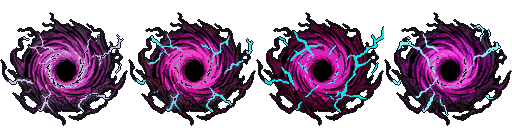
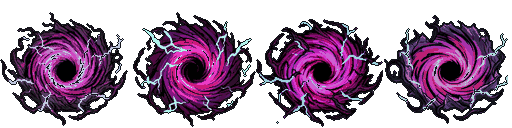
The vortex's tendrils move: frames redrawn from the candidate by image-to-image (rift-frames --mode img2img), chosen by likeness; the compositor's tear is frequent and shears around the rift, and the vortex is drawn in bands that tear the same way, off with the glitch setting

Changed region(s): [[0.25, 0.0938, 1.0, 1.0]]

diff --git a/docs/design-bible.html b/docs/design-bible.html
@@ -363,7 +363,7 @@
     <div class="row"><div class="tagcol"><span class="tag decided">Decided</span></div><div class="body"><p class="lead">The skirmish is fought on the enemy's ground: the foes stand on the other world, the mechs on the seam.</p><p>Ryan, 21 September: a skirmish opens where a squad stands, and where a squad stands the ground has already gone flat, so the fight is never on the reconstruction's terrain. The skirmish screen is the feed the reconstruction hands over to at contact, and its ground says so. Under the foes, the other world's flat bright overworld of the contact hex's terrain, at its two-frame animation. Under the mechs, the reconstruction's tile with the other world eating into it from the top edge through the map's own dithered, pixel-stepped seam: the one place the seam is close enough to read as a texture. The display's grid, the traces on the machines and the scan bar sit over both, the same display on both screens with only the ground changing. Later the seam's depth may follow how far the corruption has come. The map, before a plan is locked, shows the phase exactly as it will resolve (the resolver itself run dry, every unit put back): every contact, every squad a body block will stop, every route that will be rejected. Ryan, 21 September: there is never any ambiguity about what Resolve will do. And 22 September: the player plots in order, each route planned with the machines plotted before it already at their destinations, so a route never conflicts and Resolve never rejects one; re-plotting a machine puts it last in the order (the last thing plotted moves last), and any route the change breaks is dropped and said so. Squads plan the same way, in field order, each around where the squads before it will end, so a squad uses its whole move and only a mech can stop it short. After the movement phase plays, the contacts are offered: how many, who is in each, and the player picks which to fight first and confirms before any skirmish opens. The boss stands on one hex for now and patrols its zone outside the rift (Ryan, 22 September: a wider footprint cannot path, and the gate guard need not march); the multi-hex footprint stays in the engine for later. The movement phase plays: mechs along their routes, then squads along their intents, each cut where it really stopped, and the skirmish opens after.</p></div></div>
     <div class="row"><div class="tagcol"><span class="tag decided">Decided</span></div><div class="body"><p class="lead">Zone of control: a grounded machine controls the ground beside it; a flyer controls nothing.</p><p>Ryan, 22 September, settling how a mech stops a squad and how the preview shows it. Every hex beside a grounded mech is under its guns: a squad that steps onto one stops there, and that is the contact. A squad already standing on controlled ground holds where it is; the contact is its phase. Squads plan blind to the machines, so a plot never makes a squad swerve (a first cut that routed them around control read as a bug: the enemy dodged every contact the player set up); the shown path is the squad's own, cut at the first controlled hex. The preview plans the squads after the machines have moved, so plotting a route that cuts a squad off changes that squad's drawn path before Resolve, and each grounded machine's zone is drawn as one tinted flower round its destination: there is no hidden rule. A flyer's edge is speed and its cost is that it cannot stop anyone; it engages by ending beside where a squad will be. A body block (a squad walking into a machine's hex) can no longer happen against a grounded machine; it remains for squads against squads. Contact is loud: a CONTACT band across the map, black with red rules, beating twice over the dimmed field, then the panel with portraits of everyone in the fight (the machine bare, no outline; the foe as its battle sprite), paged when there are several, the map zoomed to the one being looked at with its hexes lit and the others dimmed. While contacts wait, the map freezes on them: nothing of the next phase (no intents, no zones, no new contacts) shows until every pending fight is done. The codex opens on the map as it does in the fight: double-tap a unit; a squad's entry is its foe type's, headed by the squad and its strength. The handover into the skirmish (decided 22 September, from three options: a cut with a flash, a zoom that flattens, a full feed switch): ENGAGE dives the reconstruction onto the contact, the other world's bleed grows out of the squad until the ground there has gone flat and bright while the machines still stand in it, the display cuts to black, and the skirmish's feed fades up. It says what the skirmish is, the feed the reconstruction hands over to, with the bleed the map already has. The ground a contact is fought on (decided 22 September): the squad's hex, since the fight opens where the squad stands and its ground has already gone flat; with several squads, the first in field order, the one the contact names first. One rule, used by the skirmish's terrain, the handover's spread and every label (the contact plaque, the panel before ENGAGE, the skirmish's header), so the ground is never ambiguous and the player reads it before committing. Ryan's caveat holds: a squad standing on good ground gets it for free, so terrain effects should be things the machines feel, not bonuses the foes get. A route may end on a hex an earlier-plotted machine is leaving, and a tap there routes rather than selects. The destination effect is one component in the HUD's own weight: the tinted hex and its thin outline drawn under the line, three bright broken rings turning against each other around a dot (the display's target lock) well inside the outline, and the intent line arriving at the outer ring; nothing translucent, nothing abutting; the rings' colour meets the ground (bright on dark, deep on pale) with a slow breath between (Ryan, 22 September); the contact effect (a heavier pulsing tint with rings bursting out of it) never shares a hex with it; contact wins; a machine's own destination marker sits on two faint breathing rings in the display's light; the other world's dither never covers a machine (the machines are drawn again over both worlds, from their own layer); the enemy's marks sit on the ground's own height like every other mark (a trial at the hex's base, 22 September, was worse and was reverted the same day); the enemy's line, outline and rings breathe together between red and a bright salmon; the tints are heavy on purpose, the zone breathing, because the UX matters more than the ground under a mark; every hex tint and the zone's outline lie on the ground under the machines, never over them, hidden by whatever stands on them as the grid is; a machine keeps its outline where the wall hides part of it, and the gate and walls wear no outline; the gate is selectable, with its integrity as a true bar on the wall's face and a codex entry of its own; the rift carries a bar of its own above it, in the scenery rows where the boss standing in front never covers it, counting down to the next spawn; the top bar says only what is not on the map, in plain words (the round, and how many rounds until the rift spawns); the HUD's own marks (the frame, the bars, their text) stay crisp and thin under zoom, drawn in screen space, because a HUD is drawn on the glass, not on the ground. The map tuner is a development tool now (Ryan, 22 September: happy with the look); the player's knobs live in a pause menu on both screens (MENU: resume, settings, and from 23 September quit, which asks first and leaves for the harness with nothing kept; settings: the display colour, brightness, move pace, enemy pace, and glitch and scan bar toggles, then the music and effects knobs; saturation and bloom were cut the same day as knobs no player would want), saved between sessions; a colour change rebuilds the screen behind a mask with the menu still up (Ryan, 23 September: it had closed the menu, and the rebuild is not instant); every gauge on the skirmish sits on a dark ground of its own chamfered shape rather than a plate under the stack, and stands a little off its drawing (the same day); the scan bar off means the lights off, every trace resting as ink; red outlines alone never read on this ground, so every one of these tints its hex and moves. The movement phase plays at a pace by movespeed, the quickest unit at the fastest pace the display will ever show. The pulse trace is the default look: everything rests as ink and the scan bar lights it as it passes, with a long tail; the skirmish's machines carry the same silhouette; only the codex is ever pure black ink with no highlight.</p></div></div>
     <div class="row"><div class="tagcol"><span class="tag decided">Decided</span></div><div class="body"><p class="lead">Foe art register, restated for the battlefield.</p><p>Foes are painterly, sixteen colours, at a coarser pixel scale than anything the player owns, with dithered shading; mechs are clean toon geometry. On the map this contrast is the point: the enemy sprite is drawn at its own pixel grid, never smoothed, never lit by the scene, and the terrain it stands on posterizes toward its register. Restated 19 September from the 15 September style split.</p></div></div>
-    <div class="row"><div class="tagcol"><span class="tag decided">Decided</span></div><div class="body"><p class="lead">The map's frame belongs to the viewport; the rift is a vortex in the foes' register.</p><p>Ryan, 23 September, from the first look on a phone. The frame (the field's two boundary lines with their ticks, numbers and readouts) is drawn on the glass, not on the ground: its lines stand at the view's left and right edges through every scroll and zoom, its readouts hold at the view's top and bottom, and only the ticks and row numbers ride the map; the numbers sit inside the lines, the same distance in on both sides (the first cut had them outside, and the left ones crowded the edge). The blur runs on outside the play area, and its text, like the gate bar's, is a size up; every bar's label sits on a dark plaque so it reads on any ground. The map is never to get smaller: the base hex went from 44 to 48, and zoom does the rest. The rift stopped being purple tiles: it is a swirling vortex tearing a ragged hole in reality, a sprite in the same sixteen-bit register as the foes' battle sprites, generated by foeforge from a written brief (<code>forge.py rift</code>) and animated in four distinct frames: the chosen candidate and three follow-ons from the edit model (<code>rift-frames</code>), which keeps the drawing and moves the lightning, the tendrils and the spiral; <code>cut-rift --frames</code> cuts them into one strip. (A first cut turned one drawing a few degrees each way; Ryan wanted real frames.) It stands over its three hexes and reaches up into the scenery rows, which were already there to take it, and its spawn bar sits over its upper part on the plaque. The hexes under it are the hole's dark floor. Candidate three of four was cut; the other three wait in <code>tools/foeforge/out/rift</code>.</p></div></div>
+    <div class="row"><div class="tagcol"><span class="tag decided">Decided</span></div><div class="body"><p class="lead">The map's frame belongs to the viewport; the rift is a vortex in the foes' register.</p><p>Ryan, 23 September, from the first look on a phone. The frame (the field's two boundary lines with their ticks, numbers and readouts) is drawn on the glass, not on the ground: its lines stand at the view's left and right edges through every scroll and zoom, its readouts hold at the view's top and bottom, and only the ticks and row numbers ride the map; the numbers sit inside the lines, the same distance in on both sides (the first cut had them outside, and the left ones crowded the edge). The blur runs on outside the play area, and its text, like the gate bar's, is a size up; every bar's label sits on a dark plaque so it reads on any ground. The map is never to get smaller: the base hex went from 44 to 48, and zoom does the rest. The rift stopped being purple tiles: it is a swirling vortex tearing a ragged hole in reality, a sprite in the same sixteen-bit register as the foes' battle sprites, generated by foeforge from a written brief (<code>forge.py rift</code>) and animated in four distinct frames: the chosen candidate and three follow-ons redrawn from it by the image model (<code>rift-frames --mode img2img</code>), loose enough that the tendrils at the rim reach out in new directions while the lightning and colour change too; the edit model, tried first, held the silhouette too closely (Ryan, 23 September: the tendrils must move, not just the lightning). The frames are lined up as whole drawings by correlation, chosen by measured likeness so no two are near twins, and <code>cut-rift --frames</code> cuts them into one strip. (A first cut turned one drawing a few degrees each way; Ryan wanted real frames.) The vortex steps one frame a beat of the music playing (<code>Sound.beat</code>): it had landed near the beat by chance, so it is on it. It is the display's worst input: the compositor's tear, rare elsewhere, is frequent around the rift and shears sideways there, and the vortex itself is drawn in bands that tear the same way. It stands over its three hexes and reaches up into the scenery rows, which were already there to take it, and its spawn bar sits over its upper part on the plaque. The hexes under it are the hole's dark floor. Candidate three of four was cut; the other three wait in <code>tools/foeforge/out/rift</code>.</p></div></div>
     <div class="row"><div class="tagcol"><span class="tag decided">Decided</span></div><div class="body"><p class="lead">The battlefield screen is CARE's tactical reconstruction of the field.</p><p>Decided 20 September. Ryan's framing was a war table in-world: an approximated satellite view with the HUD, grid, mechs and labels projected over it, the only explanation for seeing the corrupted 2D landscape at all; he took Claude's refinement as the same idea with more to hang on it. The screen is the reconstruction CARE builds from drone survey and mech telemetry, which is why terrain and structures are real geometry and the mechs are clean models drawn legibly large (they are the system's own markers, telemetry made visible, not a camera image). The reconstruction cannot hold what came through the rift: sensors return it flat, so the enemy and the ground it corrupts appear as a flat picture, and at contact the reconstruction gives up and the feed itself takes over (the skirmish screen). This makes the 2D literal rather than decorative, licenses a pitched camera and a zoom, and settles scale without a tabletop: real ground at a small scale (a hex is the room a machine takes), mechs drawn at marker size. Sensor language follows and is wanted for its strategic depth: a squad not yet seen is a contact, the edge tags are sensor returns, the intent lines are projections; the reconstruction's quality is a possible research path later. Scale is a feel question, not a plausibility one: the mechs need not fit through the gate, but the gate must look like it keeps behemoths out.</p></div></div>
     <div class="row"><div class="tagcol"><span class="tag decided">Decided</span></div><div class="body"><p class="lead">The city is under a field, and the gate is its projector.</p><p>Ryan's hole, 20 September: a wall with one reinforced gate makes no sense against things that climb and fly. Decided the same day: the city sits under an impenetrable energy field, the Arsenal's one technology the Council funds in full, and the gate is its projector. The field is cast from the gate outward and over the city, and the projector stands in its own shadow: the mouth is the one place the field cannot cover, which is why every squad heads for it and why the gate falling loses the campaign (the projector goes, the field goes, the city is open). Rift Pressure is literally pressure on the field; the sortie exists because the field strains as pressure climbs and the rift must be closed before it fails. The walls on the bottom row are the projector's emitter line, and the blades on every top edge are its vanes, so the ornament has a job. Known holes, accepted: why not a second field over the mouth (every projector has a mouth; the innermost still has one). Dome and mountain were considered and dropped: the dome explains nothing the field does not, and a cliff loses the built, Arsenal look. Still to do in art: the field itself, if it shows at all (a faint edge at the bottom row, or nothing), and the walls reshaped as emitters. The gate's later direction (Ryan, 21 September): keep the fortress brief but add StarCraft Terran, more machinery and lights, fewer vanes, a wider door that shows how it opens.</p></div></div>
     <div class="row"><div class="tagcol"><span class="tag decided">Decided</span></div><div class="body"><p class="lead">Every machine can ford water; each way of moving has its own worst ground.</p><p>Ryan, 21 September: machines this size cross water, so it is a penalty, not a wall, and terrain should make the ways of moving feel different rather than "slow and slower". Tracks wade slowly (3), a walker wades (2) and shrugs off rough and rubble, hover skims water (1) but chokes on rubble (3), a flyer ignores everything and is the only thing that crosses a crag. Numbers are placeholders.</p></div></div>

diff --git a/tools/foeforge/forge.py b/tools/foeforge/forge.py
@@ -301,8 +301,18 @@ def rift_frames(args):
     made = [Path(args.image)]
     for seed in range(args.seed, args.seed + args.n):
         path = out / f"frame_{seed}.png"
-        cmd = [str(MFLUX_EDIT), "--model", MODEL, "--quantize", QUANTIZE, "--prompt", prompt,
-               "--image-paths", args.image, "--steps", STEPS, "--seed", str(seed), "--output", str(path)]
+        if args.mode == "edit":
+            # Keeps the drawing closely: the lightning and colour move, the rim less so.
+            cmd = [str(MFLUX_EDIT), "--model", MODEL, "--quantize", QUANTIZE, "--prompt", prompt,
+                   "--image-paths", args.image, "--steps", STEPS, "--seed", str(seed), "--output", str(path)]
+        else:
+            # Redraws from the reference at `strength`: looser, so the tendrils at the rim
+            # move too (Ryan, 23 September).
+            ref = Image.open(args.image)
+            cmd = [str(MFLUX), "--model", MODEL, "--quantize", QUANTIZE, "--prompt", prompt,
+                   "--image-path", args.image, "--image-strength", str(args.strength),
+                   "--width", str(ref.width), "--height", str(ref.height), "--steps", STEPS,
+                   "--seed", str(seed), "--output", str(path)]
         print("rendering", path.name)
         subprocess.run(cmd, check=True)
         made.append(path)
@@ -582,6 +592,8 @@ def main():
     rf.add_argument("--n", type=int, default=3)
     rf.add_argument("--seed", type=int, default=1)
     rf.add_argument("--prompt", default="")
+    rf.add_argument("--mode", default="edit", choices=["edit", "img2img"], help="edit keeps the drawing and moves the lightning; img2img redraws from it and moves the rim too")
+    rf.add_argument("--strength", type=float, default=0.6, help="img2img only: how close to the reference to stay")
     rf.set_defaults(func=rift_frames)
     args = ap.parse_args()
     args.func(args)

diff --git a/docs/status.md b/docs/status.md
@@ -53,9 +53,10 @@ first cut. Trials retired; the bible republished (link above). A placeholder lau
 icon (`art/icon.png`, a tool-drawn hex). Afternoon: the map's frame belongs to the viewport
 (lines the view's height, readouts fixed, ticks and numbers scrolling), tighter and with
 bigger text, pinned through zoom too; bar labels on plaques; the rift is a foeforge
-vortex in four distinct frames, the chosen candidate plus three edit-model follow-ons
-(bible section 5 row, 23 September; the other candidates and the frames are in
-`tools/foeforge/out/rift`).
+vortex in four distinct frames (the candidate plus three image-to-image redraws that move
+the tendrils, aligned by correlation, chosen by measured likeness), stepping on the
+music's beat, torn in bands like the ground round it (bible section 5 row, 23
+September; every candidate and frame is in `tools/foeforge/out/rift`).
 
 **Ryan's skirmish notes, 23 September (done).** Four columns locked in. The menu has QUIT
 (asks first; `quit_requested` runs harness-ward through the battle screen) and a colour
